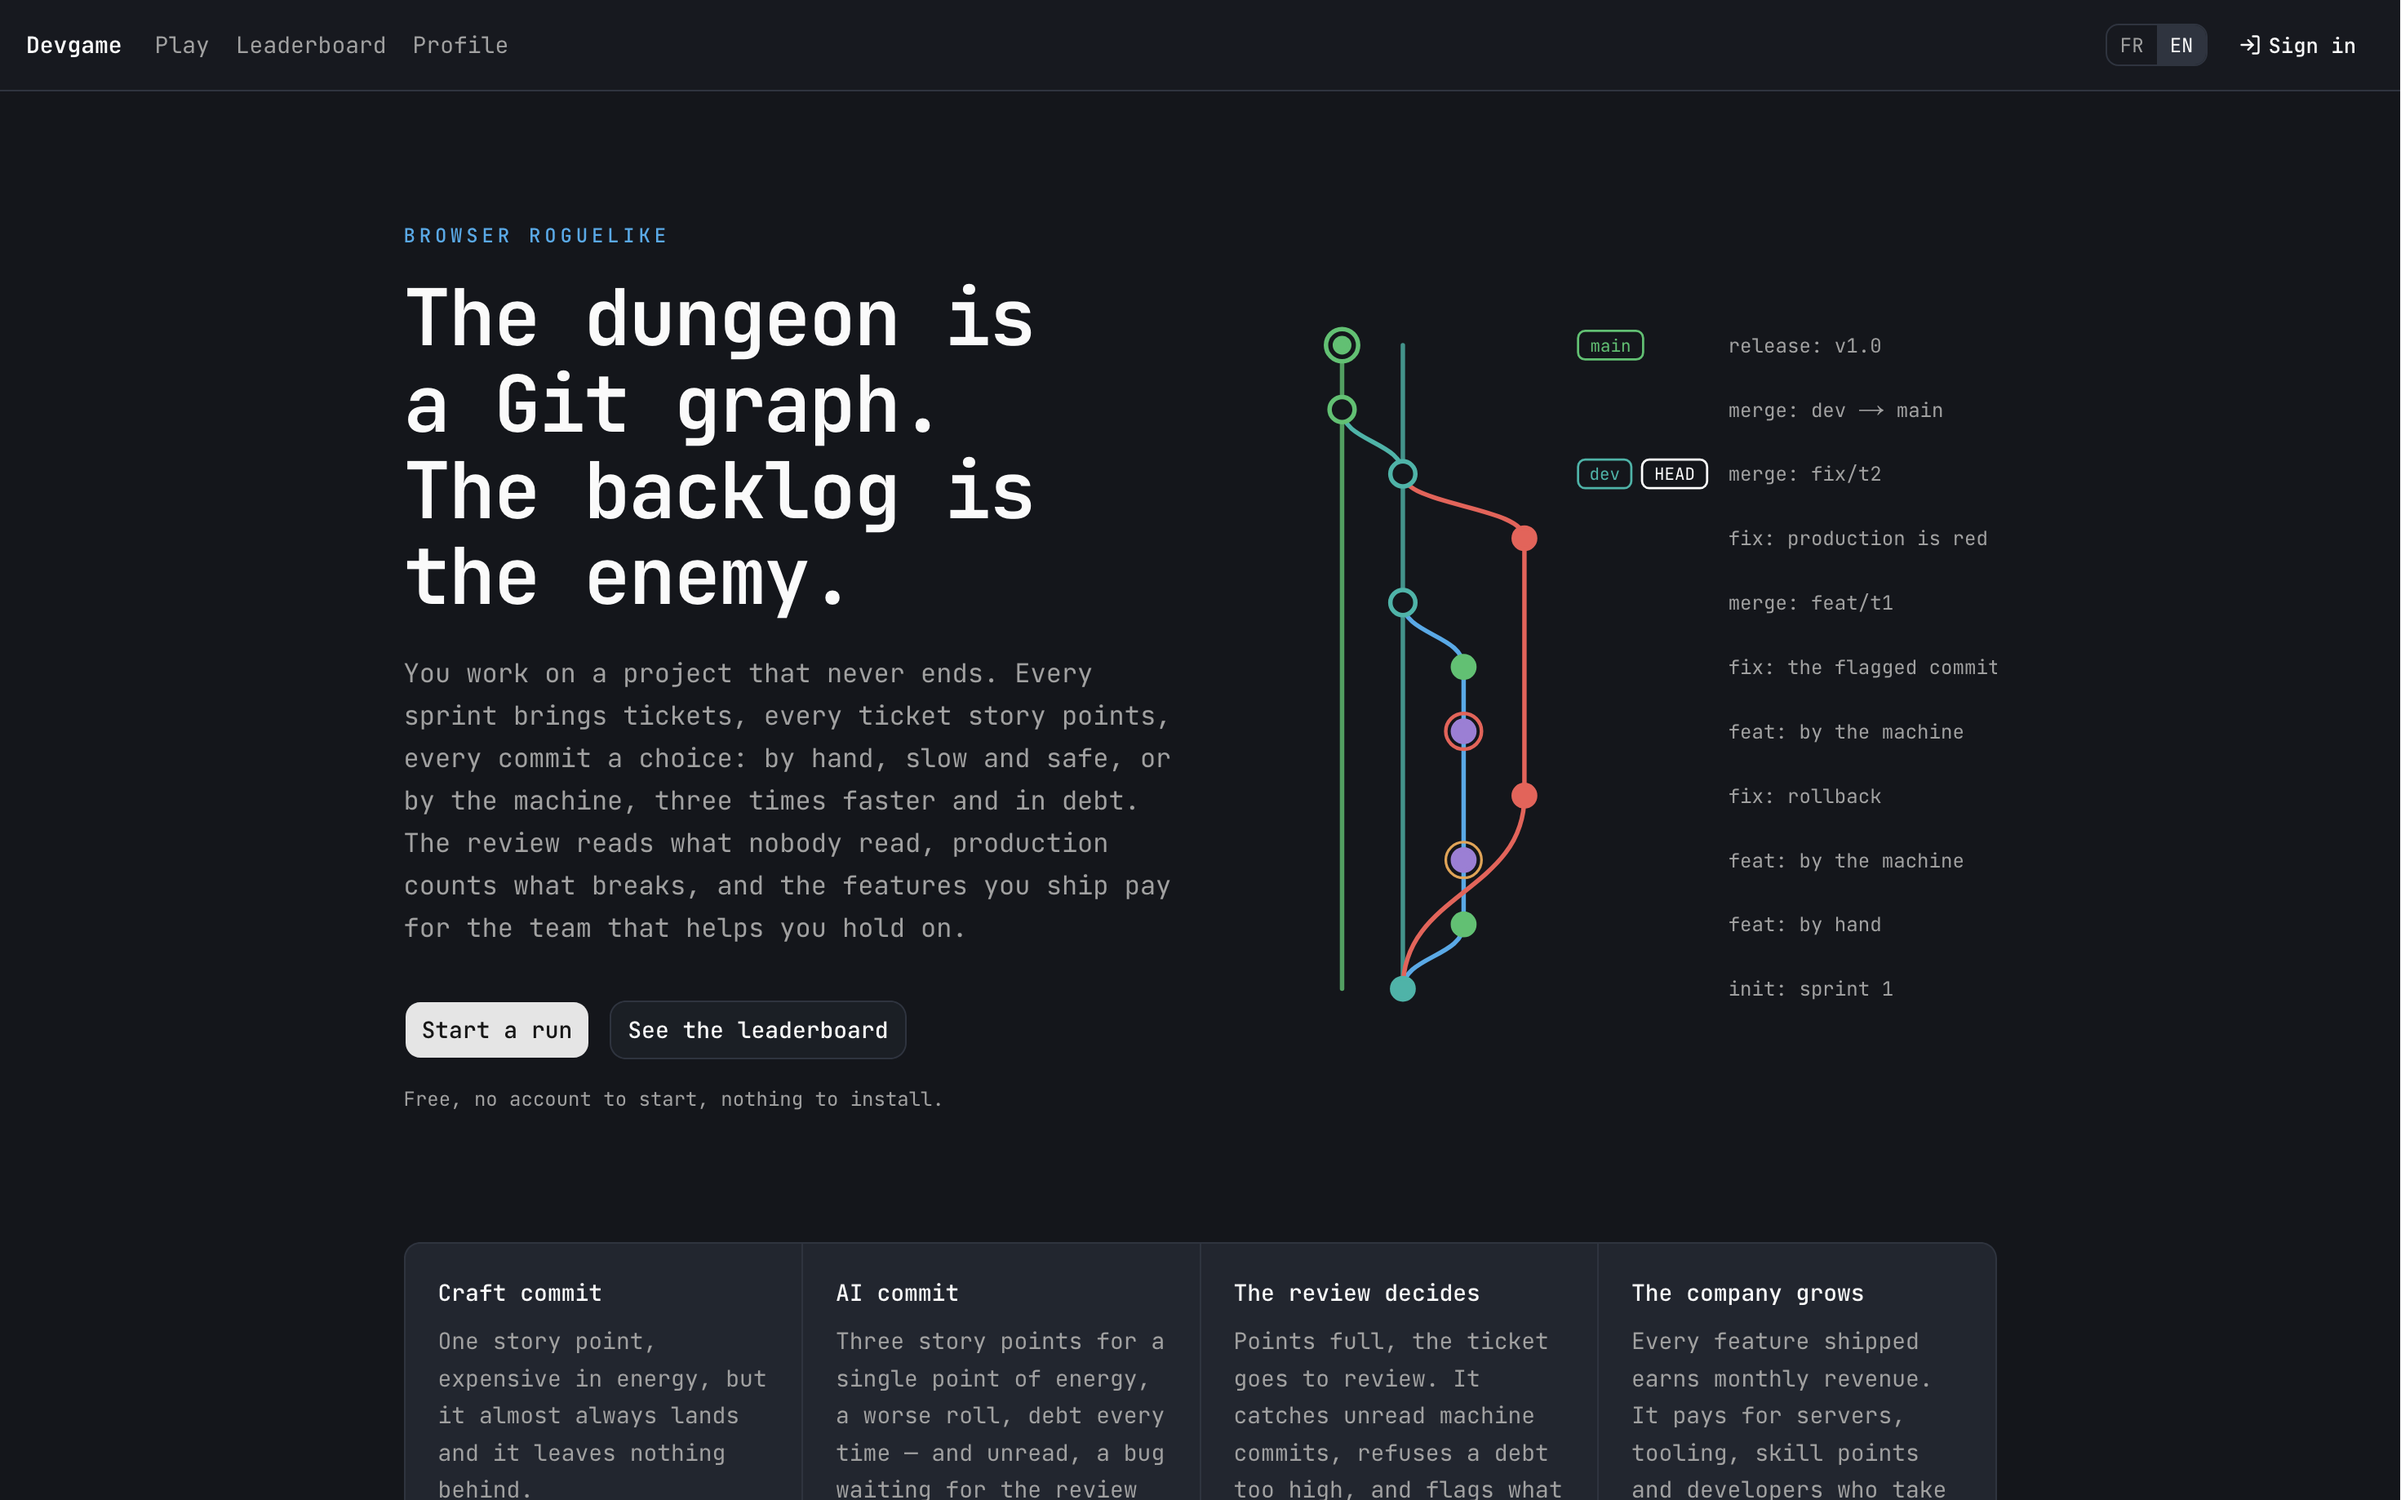
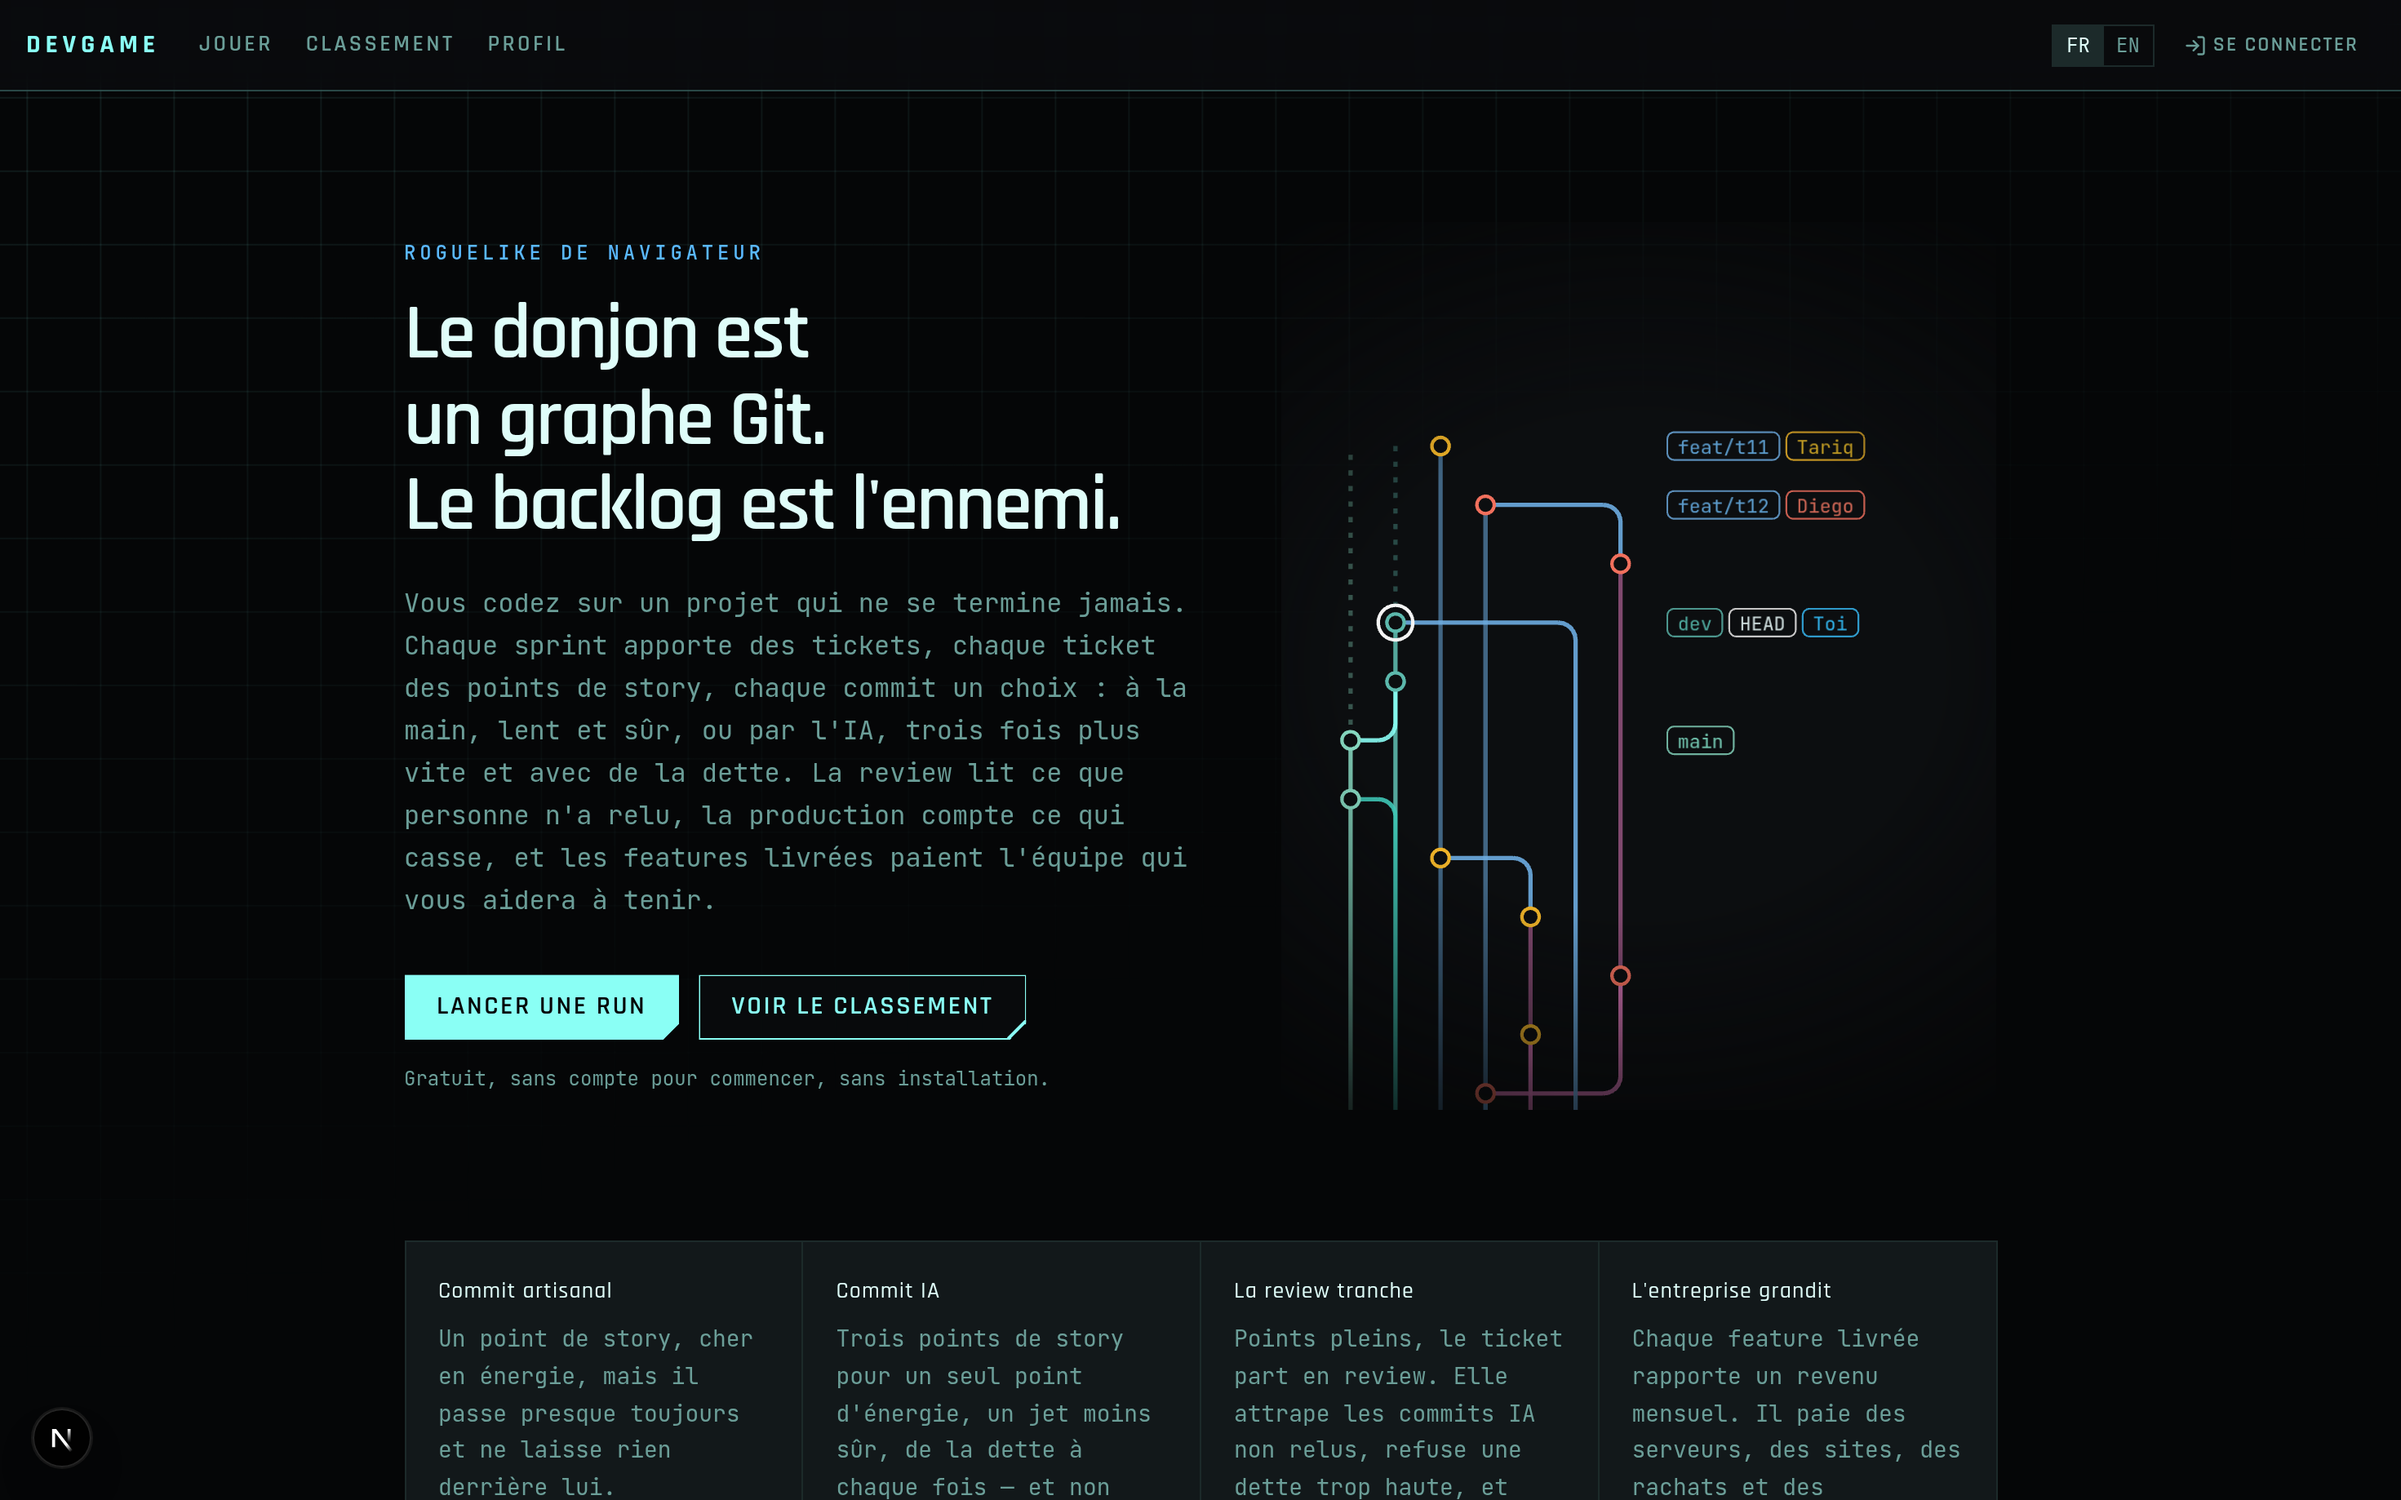
The README's screenshot shows the cyberpunk landing page and its team

diff --git a/README.md b/README.md
@@ -8,7 +8,7 @@ review decides what lands, production decides whether you keep your job, and
 the money your features earn buys you the team and the tooling to hold on a
 little longer.
 
-![The landing page: the headline, the pitch, and the git graph of a first sprint drawn as the game draws it](docs/homepage.png)
+![The landing page: the headline, the pitch, and today's run drawn by the game itself — the player and two developers, each branch tagged with its owner's name](docs/homepage.png)
 
 There is no end. A run stops in **burnout** (you ran out of energy) or with
 **production firing you** (it ran out of patience). The score is what you held.
